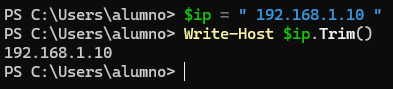
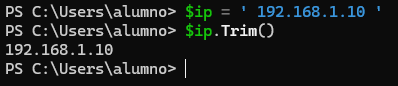
pr0603

diff --git a/ut06/pr0603/pr0603.md b/ut06/pr0603/pr0603.md
@@ -7,7 +7,7 @@
 
 ```powershell
 $sys = 'Windows Server'
-Write-Host $sys.ToUpper()
+$sys.ToUpper()
 ```
 
 ![Mayúsculas](Imagenes/1.png)
@@ -16,7 +16,7 @@ Write-Host $sys.ToUpper()
 
 ```powershell
 $user = 'ADMINISTRATOR'
-Write-Host $user.ToLower()
+$user.ToLower()
 ```
 
 ![Minúsculas](Imagenes/2.png)
@@ -25,7 +25,7 @@ Write-Host $user.ToLower()
 
 ```powershell
 $ip = ' 192.168.1.10 '
-Write-Host $ip.Trim()
+$ip.Trim()
 ```
 
 ![Limpiar espacios en extremos](Imagenes/3.png)
@@ -34,7 +34,7 @@ Write-Host $ip.Trim()
 
 ```powershell
 $mac = '00 AA 11 BB 22 CC'
-Write-Host $mac.Replace(' ', '')
+$mac.Replace(' ', '')
 ```
 
 ![Eliminar espacios](Imagenes/4.png)
@@ -43,7 +43,7 @@ Write-Host $mac.Replace(' ', '')
 
 ```powershell
 $pass = 'P@ssw0rd123'
-Write-Host $pass.Length
+$pass.Length
 ```
 
 ![Longitud de cadena](Imagenes/5.png)
